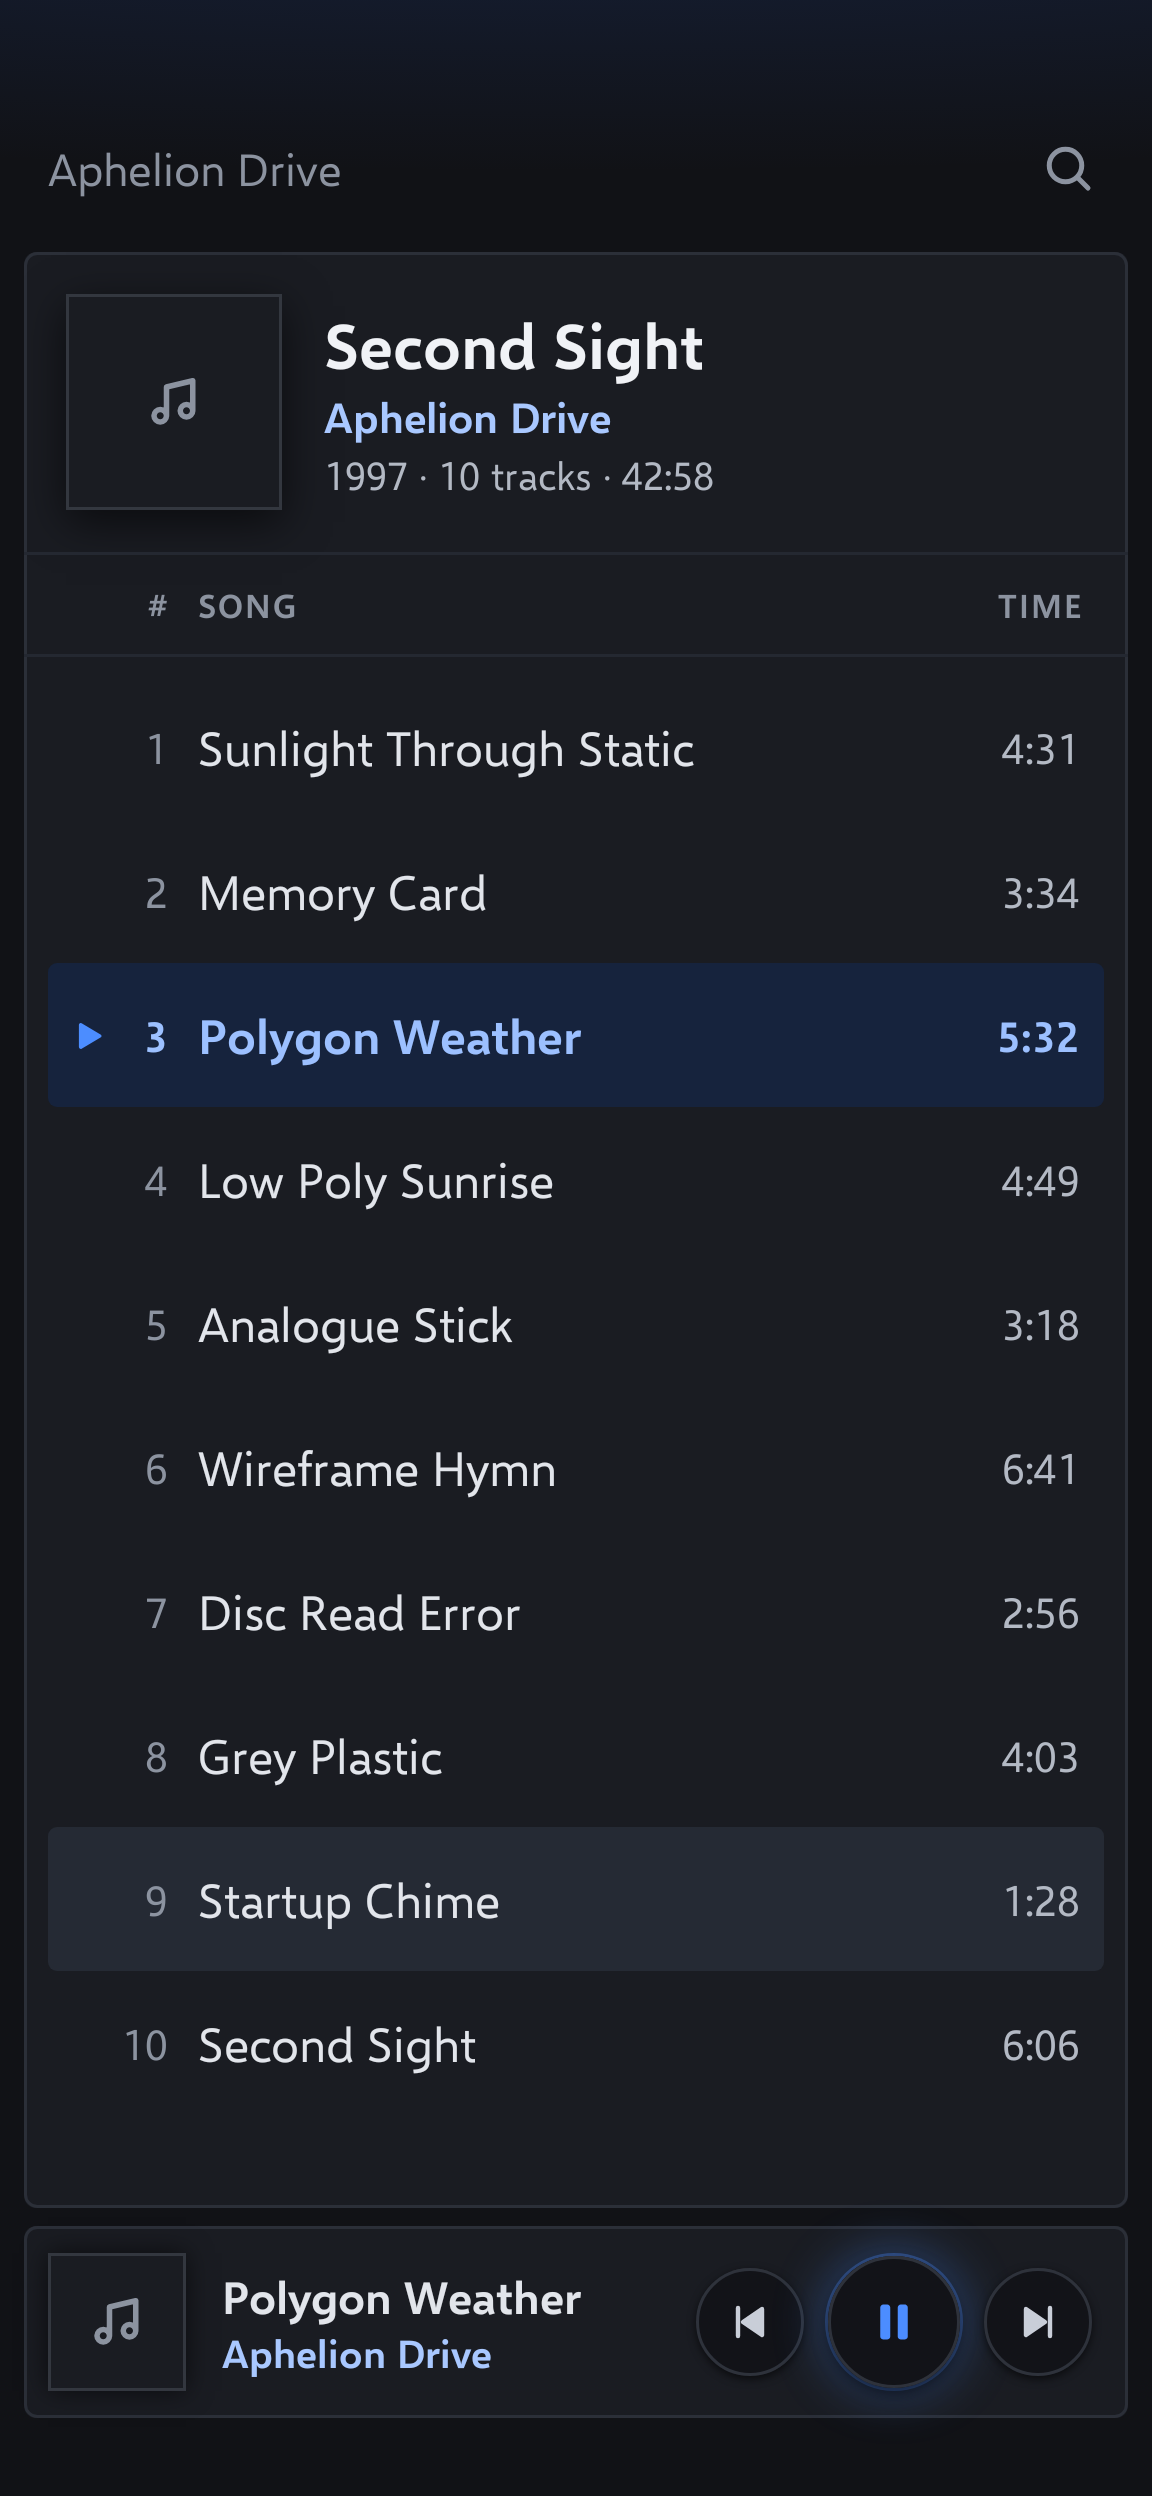
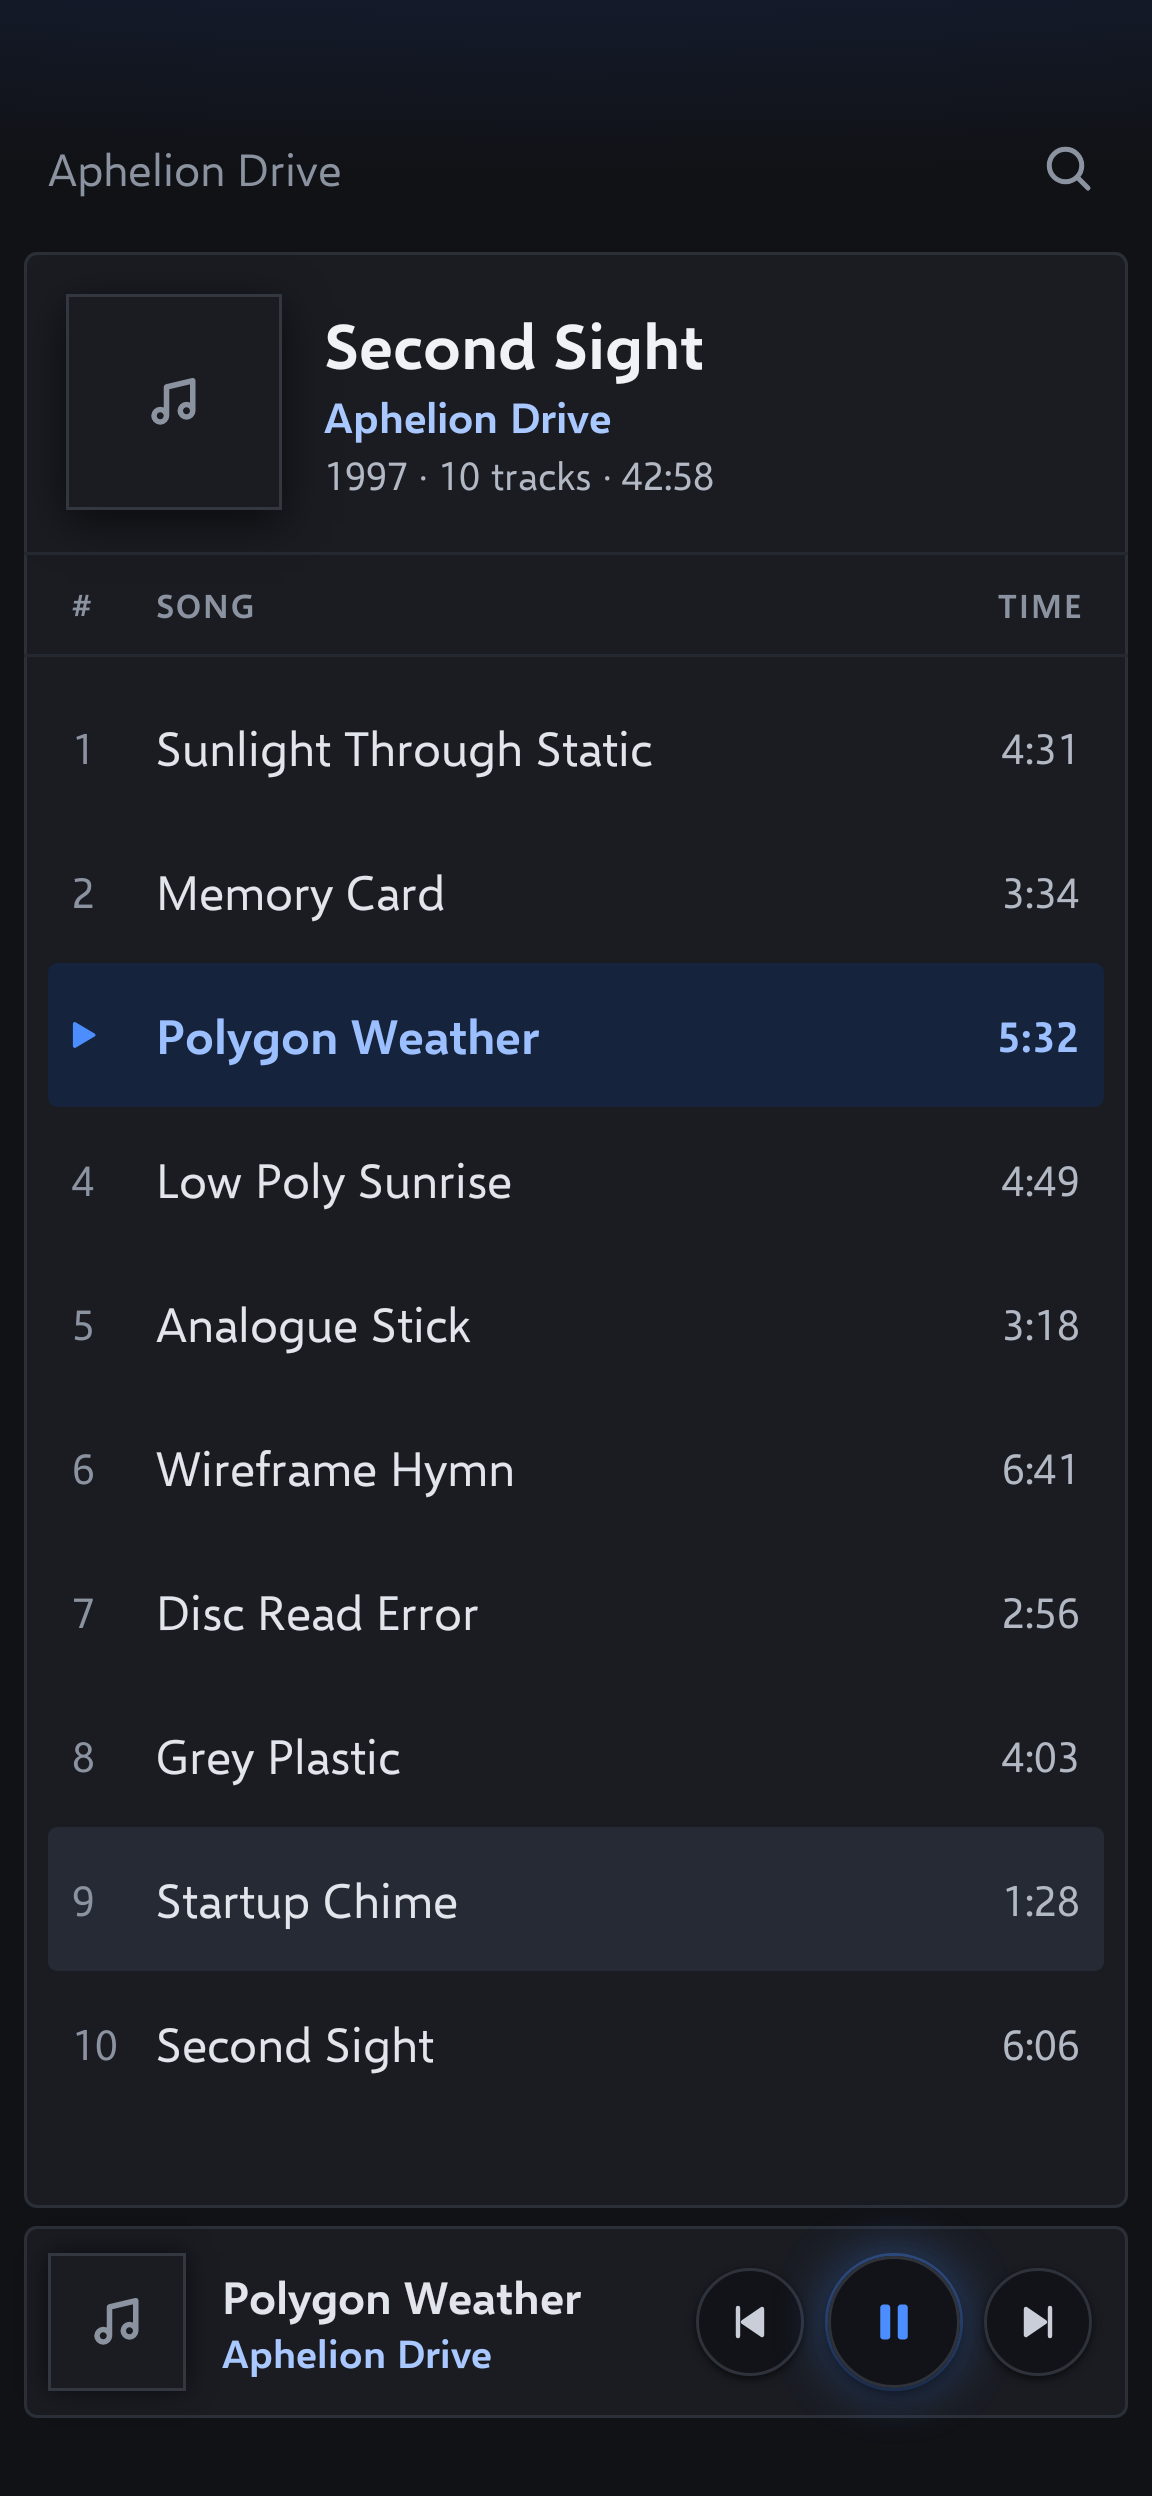
Album: track numbers left-aligned at the row's start
The playing song shows the triangle in its number's place instead of in a
slot left of the number, so the numbers start where the cover does and the
titles move about 14 dp left. The # column is album.columns.number.width
(now 18 dp) or the album's longest number if wider (100+ tracks, large
fonts). The user's call from three layouts. Spec 4.3; the 20 Album
ThemeLab pictures re-recorded.

diff --git a/app/src/main/java/com/mpaulrenlund/audiofool/ui/LibraryScreens.kt b/app/src/main/java/com/mpaulrenlund/audiofool/ui/LibraryScreens.kt
@@ -10,7 +10,6 @@ import androidx.compose.foundation.layout.fillMaxWidth
 import androidx.compose.foundation.layout.height
 import androidx.compose.foundation.layout.padding
 import androidx.compose.foundation.layout.width
-import androidx.compose.foundation.layout.widthIn
 import androidx.compose.foundation.lazy.LazyColumn
 import androidx.compose.foundation.lazy.items
 import androidx.compose.foundation.lazy.rememberLazyListState
@@ -22,7 +21,10 @@ import androidx.compose.runtime.saveable.rememberSaveable
 import androidx.compose.runtime.setValue
 import androidx.compose.ui.Alignment
 import androidx.compose.ui.Modifier
+import androidx.compose.ui.platform.LocalDensity
+import androidx.compose.ui.text.rememberTextMeasurer
 import androidx.compose.ui.text.style.TextAlign
+import androidx.compose.ui.unit.Dp
 import com.mpaulrenlund.audiofool.core.format.Display
 import com.mpaulrenlund.audiofool.core.library.ArtistIndex
 import com.mpaulrenlund.audiofool.core.model.Album
@@ -236,17 +238,36 @@ fun AlbumScreen(artistName: String, title: String, browse: Browse, actions: AppA
     ) {
         PanelSurface(Modifier.weight(1f)) {
             if (album != null) AlbumHeader(album)
-            TableHeader()
+            val numberWidth = numberColumnWidth(album)
+            TableHeader(numberWidth)
             LazyColumn(
                 state = listState,
                 contentPadding = PaddingValues(horizontal = t.dp("album.listPaddingX"), vertical = t.dp("album.listPaddingY")),
             ) {
                 items(album?.tracks.orEmpty(), key = { it.filePath }, contentType = { "song" }) { track ->
-                    SongRow(track, browse, actions, chosen = chosenIndex >= 0 && track === album?.tracks?.get(chosenIndex))
+                    SongRow(track, browse, actions, numberWidth, chosen = chosenIndex >= 0 && track === album?.tracks?.get(chosenIndex))
                 }
             }
         }
     }
+}
+
+/**
+ * The # column's width: `album.columns.number.width` (two digits), or the album's
+ * longest number if that is wider (100+ tracks, a large font size). Numbers use
+ * tabular figures, so the longest is the widest. The header and every row share it.
+ */
+@Composable
+private fun numberColumnWidth(album: Album?): Dp {
+    val t = LocalAppTheme.current
+    val density = LocalDensity.current
+    val measurer = rememberTextMeasurer()
+    val style = t.text("album.cellSize", "color.text.muted")
+    val longest = album?.tracks.orEmpty().map { Display.number(it.trackNumber) }.maxByOrNull { it.length }.orEmpty()
+    val measured = remember(longest, style, density) {
+        if (longest.isEmpty()) 0 else measurer.measure(longest, style, maxLines = 1).size.width
+    }
+    return maxOf(t.dp("album.columns.number.width"), with(density) { measured.toDp() })
 }
 
 /** 72 dp art with `shadow.headerArt`, the title (two lines), the artist and "1997 · 10 tracks · 42:58". */
@@ -277,9 +298,9 @@ private fun AlbumHeader(album: Album) {
     }
 }
 
-/** "# · SONG · TIME" (spec 4.3), lined up with the rows' columns. */
+/** "# · SONG · TIME" (spec 4.3), lined up with the rows' columns; "#" left-aligned as the numbers are. */
 @Composable
-private fun TableHeader() {
+private fun TableHeader(numberWidth: Dp) {
     val t = LocalAppTheme.current
     val style = t.text("album.tableHeaderSize", "color.text.muted", weight = 600, letterSpacingEm = t.number("album.tableHeaderLetterSpacingEm"))
     Column {
@@ -291,7 +312,7 @@ private fun TableHeader() {
             horizontalArrangement = Arrangement.spacedBy(t.dp("album.columnGap")),
             verticalAlignment = Alignment.CenterVertically,
         ) {
-            Line("#", style.copy(textAlign = TextAlign.End), Modifier.width(t.dp("album.columns.number.width")))
+            Line("#", style, Modifier.width(numberWidth))
             Line("SONG", style, Modifier.weight(1f))
             Line("TIME", style.copy(textAlign = TextAlign.End), Modifier.width(t.dp("album.columns.time.width")))
         }
@@ -300,13 +321,15 @@ private fun TableHeader() {
 }
 
 /**
- * A song in the Album table: the track number with the triangle slot left of it
- * (a solid `accent.playback` triangle while it plays), the title and the time.
- * The # shows the tag's track number, blank when untagged, as the desktop's
- * table does; discs follow each other with no disc column.
+ * A song in the Album table: the track number, left-aligned at the row's start
+ * (the playing song shows a solid `accent.playback` triangle in its place), the
+ * title and the time. The # shows the tag's track number, blank when untagged,
+ * as the desktop's table does; discs follow each other with no disc column.
+ * The desktop keeps a triangle slot left of the number; the phone gives that
+ * width to the titles (the user's call, 2026-11-06).
  */
 @Composable
-private fun SongRow(track: Track, browse: Browse, actions: AppActions, chosen: Boolean = false) {
+private fun SongRow(track: Track, browse: Browse, actions: AppActions, numberWidth: Dp, chosen: Boolean = false) {
     val t = LocalAppTheme.current
     val playing = browse.isPlaying(track)
     val unavailable = browse.isUnavailable(track)
@@ -320,19 +343,12 @@ private fun SongRow(track: Track, browse: Browse, actions: AppActions, chosen: B
         gap = t.dp("album.columnGap"),
         onClick = if (unavailable) null else ({ actions.play(track) }),
     ) {
-        Row(
-            Modifier.width(t.dp("album.columns.number.width")),
-            horizontalArrangement = Arrangement.spacedBy(t.dp("album.triangle.gap"), Alignment.End),
-            verticalAlignment = Alignment.CenterVertically,
-        ) {
+        Box(Modifier.width(numberWidth), contentAlignment = Alignment.CenterStart) {
             if (playing) {
                 Icon(AppIcons.TRIANGLE, t.dp("album.triangle.width"), t.dp("album.triangle.height"), "color.accent.playback", "album.triangle.strokeOnGrid")
+            } else {
+                Line(Display.number(track.trackNumber), t.text("album.cellSize", "color.text.muted", weight))
             }
-            Line(
-                Display.number(track.trackNumber),
-                t.text("album.cellSize", if (playing) "color.accent.playbackText" else "color.text.muted", weight).copy(textAlign = TextAlign.End),
-                Modifier.widthIn(min = t.dp("album.numberMinWidth")),
-            )
         }
         Line(track.displayTitle, t.text("album.songSize", if (playing) "color.accent.playbackText" else "color.text.primary", weight), Modifier.weight(1f))
         Line(

diff --git a/core/src/test/kotlin/com/mpaulrenlund/audiofool/core/theme/ThemeTokensTest.kt b/core/src/test/kotlin/com/mpaulrenlund/audiofool/core/theme/ThemeTokensTest.kt
@@ -189,7 +189,7 @@ class ThemeTokensTest {
         assertEquals(ThemeColor.parse("#B3261E"), mobile.colors["color.bpLabel.off.light"])
         assertEquals(ThemeColor.parse("#3DDC84"), mobile.colors["color.bpLabel.on.dark"])
         assertEquals(64.0, mobile.numbers["artists.rowHeight"])
-        assertEquals(32.0, mobile.numbers["album.columns.number.width"])
+        assertEquals(18.0, mobile.numbers["album.columns.number.width"])
         assertEquals(0.117, mobile.numbers["nowPlaying.playButton.ofScreenHeight"])
         assertEquals("Selawik", mobile.texts["font.family"])
     }

diff --git a/design/android-spec.md b/design/android-spec.md
@@ -86,7 +86,7 @@ On every library screen, under the panel. Shows the cover, title (600, `text.pri
 
 - Top bar: the artist's name (15, `text.muted`) and a search button.
 - Panel header block: 72 dp art with `shadow.headerArt`, the title (21/600, `text.heading`, two lines), the artist (14/600, `accent.blue`) and "1997 · 10 tracks · 42:58" (13, `text.secondary`).
-- Table header "# · SONG · TIME", then rows of `album.rowHeight`. The # column has an 8 × 10 triangle slot left of the number: a solid triangle in `accent.playback` while that song plays. Discs follow each other in order; there's no disc column.
+- Table header "# · SONG · TIME", then rows of `album.rowHeight`. The # column starts at the row's start, with the numbers (and "#") left-aligned; it is `album.columns.number.width` wide, or the album's longest number if wider. The song playing shows an 8 × 10 solid triangle in `accent.playback` in its number's place (2026-11-06; the mockups in `design/screens/` still show the earlier triangle slot left of a right-aligned number). Discs follow each other in order; there's no disc column.
 
 ### 4.4 Search
 
